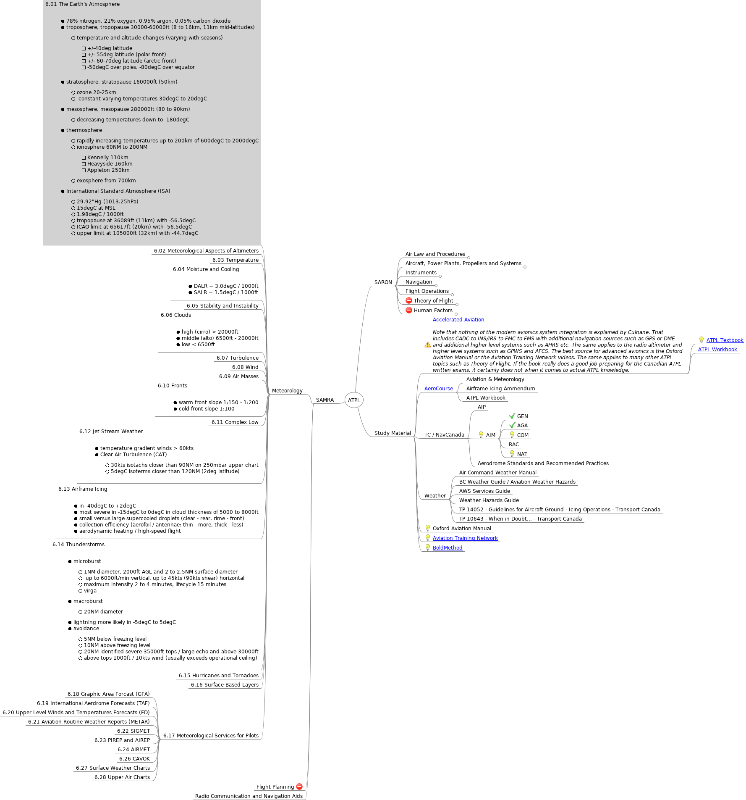
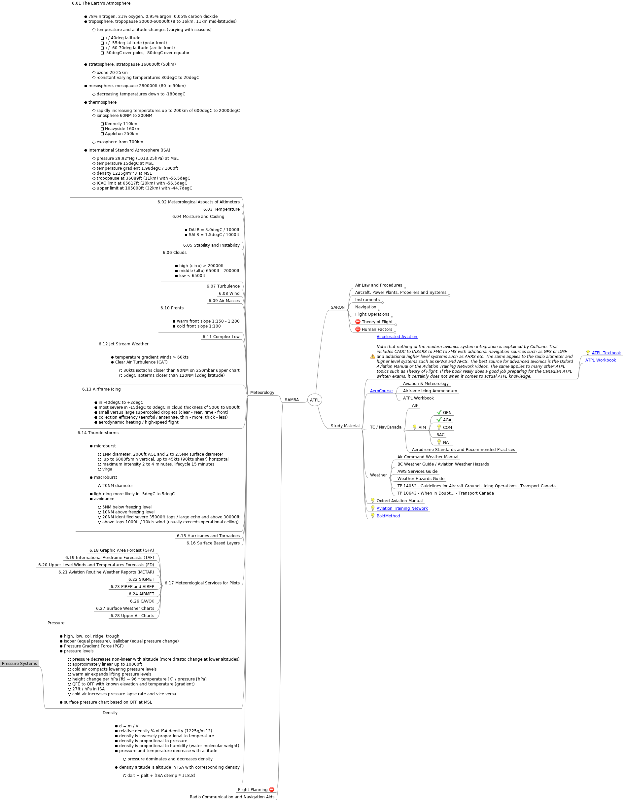
extended ATPL mind map

diff --git a/ATPL/Exam/ATPL.mm b/ATPL/Exam/ATPL.mm
@@ -9079,9 +9079,9 @@
 <node CREATED="1572557841087" ID="ID_1393851454" MODIFIED="1572557849804" TEXT="4.17 Landing Techniques"/>
 <node CREATED="1572557899101" ID="ID_7440582" MODIFIED="1572557905885" TEXT="4.18 Volcanic Ash"/>
 </node>
-<node CREATED="1568173868337" FOLDED="true" ID="ID_1290650653" MODIFIED="1573329960180" TEXT="Theory of Flight">
+<node CREATED="1568173868337" FOLDED="true" ID="ID_1290650653" MODIFIED="1573345356579" TEXT="Theory of Flight">
 <icon BUILTIN="closed"/>
-<node CREATED="1571791842521" FOLDED="true" ID="ID_416036682" MODIFIED="1573329958605" TEXT="4.01 General Theory of Flight">
+<node CREATED="1571791842521" ID="ID_416036682" MODIFIED="1573345299017" TEXT="4.01 General Theory of Flight">
 <node CREATED="1571791871556" ID="ID_1614108199" MODIFIED="1572115126055">
 <richcontent TYPE="NODE"><html>
   <head>
@@ -9137,7 +9137,7 @@
   </body>
 </html></richcontent>
 </node>
-<node CREATED="1571795030438" FOLDED="true" ID="ID_1185899766" MODIFIED="1572297660888">
+<node CREATED="1571795030438" FOLDED="true" ID="ID_1185899766" MODIFIED="1573345329875">
 <richcontent TYPE="NODE"><html>
   <head>
     
@@ -9162,8 +9162,8 @@
     </ul>
   </body>
 </html></richcontent>
-<node CREATED="1572293949192" FOLDED="true" ID="ID_322875550" MODIFIED="1572294098037" TEXT="Aerodynamic Drag">
-<node CREATED="1572294055205" FOLDED="true" ID="ID_1383169528" MODIFIED="1572294096492" TEXT="Parasite Drag">
+<node CREATED="1572293949192" ID="ID_322875550" MODIFIED="1573345312266" TEXT="Aerodynamic Drag">
+<node CREATED="1572294055205" ID="ID_1383169528" MODIFIED="1573345315606" TEXT="Parasite Drag">
 <node CREATED="1572294070034" ID="ID_1904042862" MODIFIED="1572294075453" TEXT="Form Drag"/>
 <node CREATED="1572294079265" ID="ID_1974399835" MODIFIED="1572294083772" TEXT="Interference Drag"/>
 <node CREATED="1572294087381" ID="ID_1127954097" MODIFIED="1572294090831" TEXT="Skin Friction"/>
@@ -9201,7 +9201,7 @@
 <node CREATED="1571795140889" ID="ID_591096612" MODIFIED="1571795152185" TEXT="Span, Taper and Aspect Ratio"/>
 <node CREATED="1571795169821" ID="ID_1283277097" MODIFIED="1571795179785" TEXT="Mean Aerodynamic Cord (MAC)"/>
 </node>
-<node CREATED="1571698150394" FOLDED="true" ID="ID_330232180" MODIFIED="1573329953860">
+<node CREATED="1571698150394" FOLDED="true" ID="ID_330232180" MODIFIED="1573345352267">
 <richcontent TYPE="NODE"><html>
   <head>
     
@@ -9848,7 +9848,7 @@
 </node>
 <node CREATED="1568172247782" ID="ID_1312210863" MODIFIED="1573248102002" POSITION="left" TEXT="SAMRA">
 <node CREATED="1568172518654" ID="ID_1271575521" MODIFIED="1573329978479" TEXT="Meteorology">
-<node CREATED="1568174438816" ID="ID_208638027" MODIFIED="1573336639698">
+<node CREATED="1568174438816" ID="ID_208638027" MODIFIED="1573344870763">
 <richcontent TYPE="NODE"><html>
   <head>
     
@@ -9941,13 +9941,16 @@
 
         <ul>
           <li>
-            29.92&quot;Hg (1013.25hPa)
+            pressure 29.92&quot;Hg (1013.25hPa) at MSL
           </li>
           <li>
-            15degC at MSL
+            temperature 15degC at MSL
           </li>
           <li>
-            1.98degC / 1000ft
+            temperature gradient 1.98degC / 1000ft
+          </li>
+          <li>
+            density 1225g/m^3 at MSL
           </li>
           <li>
             tropopause at 36089ft (11km) with -56.5degC
@@ -10016,8 +10019,7 @@
       </li>
     </ul>
   </body>
-</html>
-</richcontent>
+</html></richcontent>
 </node>
 <node CREATED="1573330572405" ID="ID_1665720219" MODIFIED="1573330580236" TEXT="6.07 Turbulence"/>
 <node CREATED="1573330590146" ID="ID_1075915924" MODIFIED="1573330593647" TEXT="6.08 Wind"/>
@@ -10192,6 +10194,117 @@
 <node CREATED="1573333889451" ID="ID_1599588579" MODIFIED="1573333897199" TEXT="6.26 CAVOK"/>
 <node CREATED="1573333905959" ID="ID_851727738" MODIFIED="1573333913957" TEXT="6.27 Surface Weather Charts"/>
 <node CREATED="1573334104774" ID="ID_1100851419" MODIFIED="1573334111668" TEXT="6.28 Upper Air Charts"/>
+</node>
+<node CREATED="1573341269453" ID="ID_698670885" MODIFIED="1573344538246">
+<richcontent TYPE="NODE"><html>
+  <head>
+    
+  </head>
+  <body>
+    <p>
+      Pressure
+    </p>
+    <p>
+      
+    </p>
+    <ul>
+      <li>
+        high, low, col, ridge, trough
+      </li>
+      <li>
+        isobar (equal pressure), isallobar (equal pressure change)
+      </li>
+      <li>
+        Pressure Gradient Force (PGF)
+      </li>
+      <li>
+        pressure levels
+
+        <ul>
+          <li>
+            pressure decreases non-linear with altitude (more drastic change at lower altitudes)
+          </li>
+          <li>
+            approximately linear up to 10000ft
+          </li>
+          <li>
+            cold air compacts lowering pressure levels
+          </li>
+          <li>
+            warm air expands lifting pressure levels
+          </li>
+          <li>
+            height change per hPa [ft] = 96 * temperature [K] / pressure [hPa]
+          </li>
+          <li>
+            QFE to QFF with known elevation and temperature (gradient)
+          </li>
+          <li>
+            27ft / hPa in ISA
+          </li>
+          <li>
+            cold air increases pressure lapse rate and vice versa
+          </li>
+        </ul>
+      </li>
+      <li>
+        surface pressure chart based on QFF at MSL
+      </li>
+    </ul>
+  </body>
+</html></richcontent>
+<node CREATED="1573346280843" ID="ID_1975463975" MODIFIED="1573346285324" TEXT="Pressure Systems"/>
+</node>
+<node CREATED="1573344654829" ID="ID_1590093799" MODIFIED="1573346102357">
+<richcontent TYPE="NODE"><html>
+  <head>
+    
+  </head>
+  <body>
+    <p>
+      Density
+    </p>
+    <p>
+      
+    </p>
+    <ul>
+      <li>
+        d = m / V
+      </li>
+      <li>
+        relative density % of ISA density (1225g/m^3)
+      </li>
+      <li>
+        density is inversely proportional to temperature
+      </li>
+      <li>
+        density is proportional to pressure
+      </li>
+      <li>
+        density is proportional to humidity (water molecular weight)
+      </li>
+      <li>
+        pressure and temperature decrease with altitude
+
+        <ul>
+          <li>
+            pressure dominates and decreases density
+          </li>
+        </ul>
+      </li>
+      <li>
+        density altitude is altitude in ISA with corresponding density
+
+        <ul>
+          <li>
+            dalt = palt + (ISA dtemp * 118.8)
+          </li>
+        </ul>
+      </li>
+    </ul>
+  </body>
+</html>
+</richcontent>
 </node>
 </node>
 <node CREATED="1568172603794" ID="ID_1873206513" MODIFIED="1568249087804" TEXT="Flight Planning">
